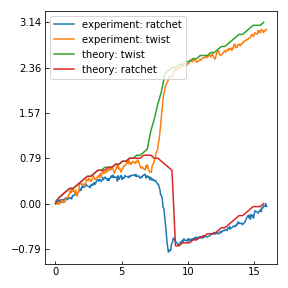
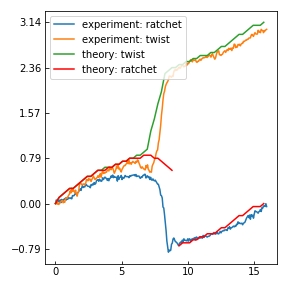
Showed the discontinuity in the line plot on Martin's ratchet

diff --git a/COM_plotter.py b/COM_plotter.py
@@ -323,7 +323,8 @@ def PlotAngleDisplacement(COM,northpole,southpole):
     # plt.scatter(martindata["x"]*channeltimeratio,martindata["rotating"], label="theory: twist",marker='.',s=4)
     # plt.scatter(martindata["x"]*channeltimeratio,martindata["ratcheting"], label="theory: ratchet",marker='.',s=4)
     plt.plot(martindata["x"]*channeltimeratio,martindata["rotating"], label="theory: twist")
-    plt.plot(martindata["x"]*channeltimeratio,martindata["ratcheting"], label="theory: ratchet")
+    plt.plot(martindata["x"][0:34]*channeltimeratio,martindata["ratcheting"][0:34], color='r', label="theory: ratchet")
+    plt.plot(martindata["x"][35:60]*channeltimeratio,martindata["ratcheting"][35:60], color='r')
     
     # plt.ylim(-1.7,1.7)
 
